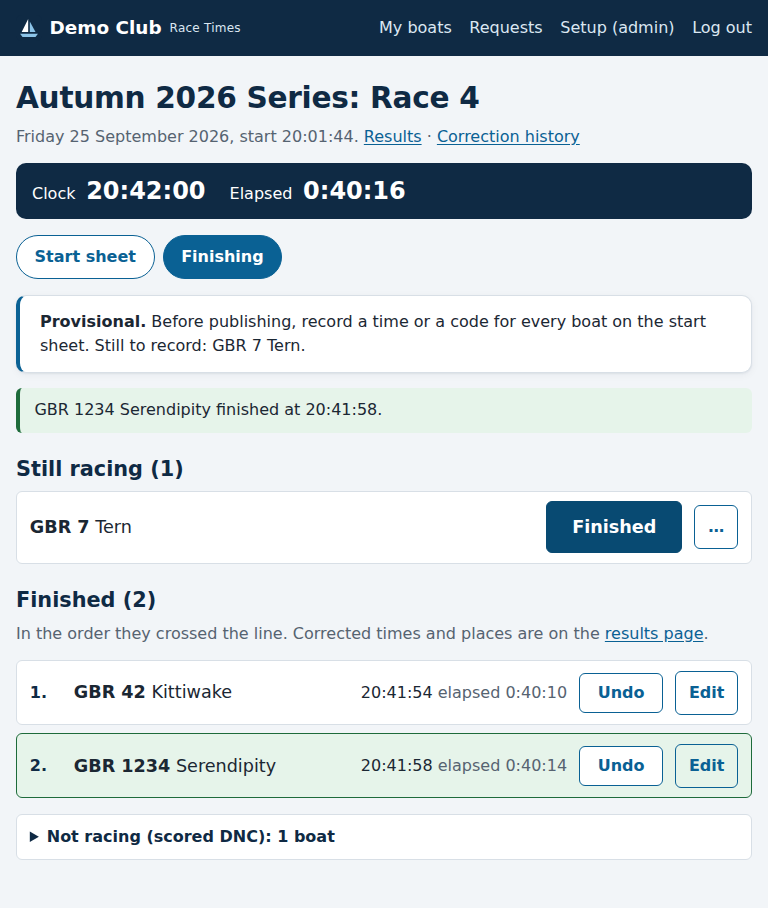
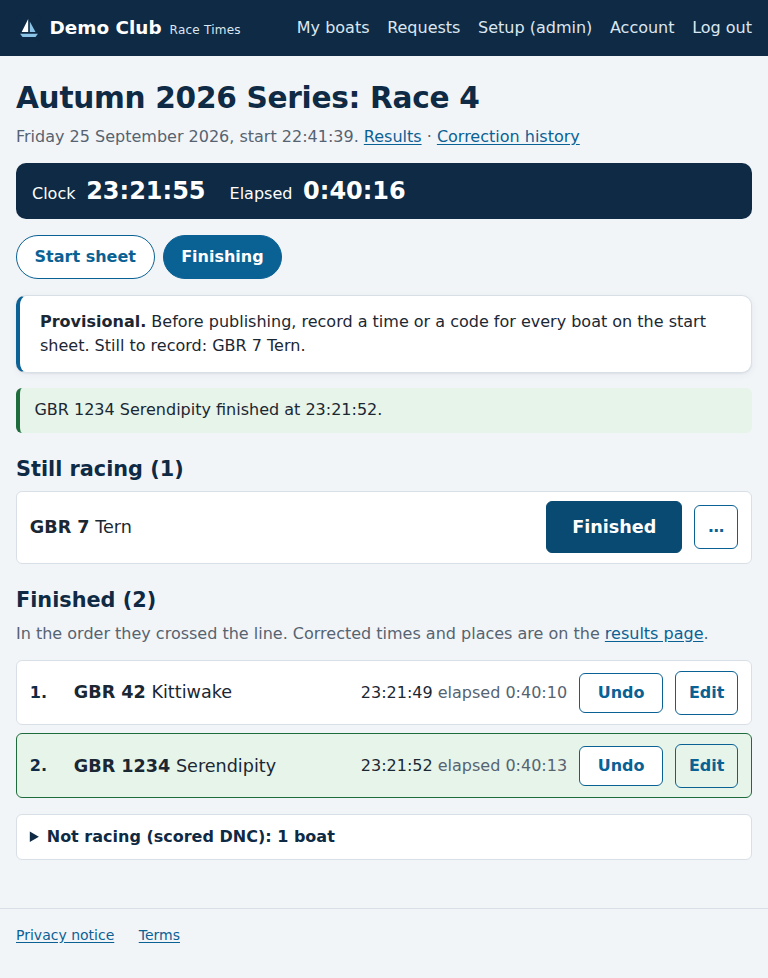
Slice 11 part 5: manual, screenshots and docs; slice 11 complete
- Manual: "Joining a club" becomes "Joining a club, and your data" (the
  account page, downloading your data, deleting your account); "Running
  your club" gains downloading the club's data, with what each file holds.
  New screenshots of the account page and the delete confirmation; the rest
  regenerated, now with the footer.
- docs/operating.md: suspending, exporting and deleting a club.
- docs/decisions.md: how part 5 was built, and the placeholders the legal
  review must fill. docs/plan.md and the spec: part 5, and slice 11,
  complete. README and CLAUDE.md updated.

Checked in the browser against the manual's sample data: a member's
account page, data download and account deletion (with its email); a club
administrator's export; only the session and CSRF cookies set; and the
operator suspending, exporting and deleting a club, with a mistyped
confirmation refused. The tests pass on PostgreSQL 16 too.

Claude-Session: https://claude.ai/code/session_01QY3tQYF5nVQS35pznUQfpw

Changed region(s): [[0.0, 0.0, 1.0, 0.9868]]

diff --git a/scripts/manual_screenshots/shots.js b/scripts/manual_screenshots/shots.js
@@ -141,6 +141,11 @@ const card = (page, text) => page.locator('section.card', { hasText: text }).fir
   const sam = await logIn(browser, 'sam@example.com');
   await sam.goto(`${BASE}/my/boats/`);
   await shot(sam.locator('table').first(), 'member-request-status.png');
+  // Their account page, and deleting the account (not pressed).
+  await sam.goto(`${BASE}/account/`);
+  await shot(sam.locator('main'), 'account.png');
+  await sam.goto(`${BASE}/account/delete/`);
+  await shot(sam.locator('main'), 'delete-account.png');
 
   // The administrator's view.
   const admin = await logIn(browser, 'admin@example.com');

diff --git a/CLAUDE.md b/CLAUDE.md
@@ -91,10 +91,11 @@ a pointer instead.
   one non-engine test there: it checks the user manual's links and contents.
 - Clubs (slice 11): Race Times serves many clubs from one database. `races/clubs.py` middleware finds `request.club` from the host (`<subdomain>.<SERVICE_DOMAIN>`, or the `SINGLE_CLUB` setting on an address with no club, which is how the Render test site, 127.0.0.1 and the tests reach Demo Club). Every club-owned model has `Model.objects.for_club(club)`, and every page, form and admin view looks up club rows through it (or through a row already found that way). `races/test_isolation.py` checks every URL, id, admin page and email for another club's data, and fails if a request-facing module queries a club model without `for_club`. A row's `club` is never editable in a form. The admin (`races/admin_site.py`, `ClubScopedAdmin`) shows only the current club; on the service's own address only the operator (superuser) gets in. Test builders default to Demo Club (`races.testing.default_club()`); to test several clubs, `make_club()` and set `HTTP_HOST="<subdomain>.localhost"`. The operator's pages (slice 11 part 3, `races/operator_views.py` at `/operator/`) exist only on the service's own address (`request.club is None`, tested with `settings.SINGLE_CLUB = ""` and `HTTP_HOST="localhost"`) and only for a superuser; they create and suspend clubs and invite administrators (`races/invitations.py`: a signed 7-day link to the club's address), and log every action as an `OperatorAction`. Clubs and memberships aren't in the Django admin. See `docs/operating.md`.
 - `config/` is the Django project (settings, root URLs, WSGI/ASGI). `races/` is the app: Club, Boat, Series, SeriesEntry, Race, RaceEntry and Finish models, set up through the Django admin; `races/scoring.py` replays a series through `nhc` on every request (nothing derived is stored); `races/audit.py` records every change to a score-affecting field as a `ScoringChange` row (who, when, old and new, and a reason for corrections), called explicitly from the finish view and the admin rather than via signals; a committee-only race day page per race (slice 9, `races/race_day.py` and `/races/<pk>/`: a Start sheet view and a Finishing view where a **Finished** button stamps the site's local time, with a two-minute Undo, 5-second HTMX polling that answers 204 when nothing changed, and `static/js/race-clock.js`, the one approved hand-written script; `race_day.now` is the clock to fix in tests) and a committee-only history page per series. The old finish-entry and start sheet addresses redirect to the race day page. Roles (see `docs/brief.md`) are per club (slice 11 part 2): a `ClubMembership` gives a person a role at one club (member, committee or administrator) once approved, and `races/roles.py` answers `is_member/is_committee/is_club_administrator(user, club)` from it. Use `member_required` / `committee_required` / `club_administrator_required`: the public is sent to log in, and a logged-in person without the role gets a 403, never a login redirect, which would loop. `is_staff`, the old "Race committee" group and superuser status grant nothing at a club; a superuser is the service's operator. Sign-up confirms the email with a signed link (`races/membership_views.py`) and asks to join the club; club administrators decide on the Members page (`/members/`). Test builders `make_member/make_committee/make_administrator` create an approved Demo Club membership (`club=`, `role=`, `status=` to vary it; `join()` adds another club), and `make_operator()` a superuser with none. Members change nothing directly: `races/member_views.py` creates `BoatRequest`/`EntryRequest` rows, and `races/approvals.py` applies one when the committee approves it on the Requests page, through the same audit code as the admin. Email (slice 4) goes only through `races/notifications.send`, which sends after the transaction commits and turns a failure into a logged warning on the page rather than an error; templates are `templates/emails/*.txt`, first line the subject. `races/publishing.py` publishes a race's results and decides "amended since sent" from the change history. `races/final.py` (slice 10) declares a series final and reopens it: a final series is locked (every write path calls `final.check_open`, or `check_series_open` to read the series fresh) and `races/scoring.score_series` rebuilds its results from `Series.final_results`, a JSON copy of the engine's output, instead of replaying; this is the one place derived results are stored. Declaring and reopening are history rows of kind FINAL, which neither mark races amended nor move the standings' "Last updated". `races/start_sheet.py` (slice 6) keeps each race's start sheet (`RaceEntry`): only a boat on it can have a finish, every boat on it needs a time or a code before publishing, and a boat on it with nothing recorded is still scored DNC but shown as "Not recorded". Start sheet changes are not audited, since none moves a score. The test builder `record()` puts the boat on the start sheet first. `races/urls.py` is included at the site root. Project-level templates live in `templates/` (`base.html` loads HTMX and sends the CSRF token via `hx-headers`, so HTMX POSTs work without per-form tokens); HTMX is vendored at `static/js/htmx.min.js` (v2.0.10), not loaded from a CDN. The look (slice 7) is one hand-written stylesheet, `static/css/site.css`: every colour is a token in its `:root`, and `races/test_styles.py` checks the tokens meet WCAG AA contrast, that no colour is written anywhere else, and that pages load only the site's own files. `templates/500.html` copies the look inline and loads nothing. `ping` is an example view demonstrating HTMX fragment responses. `races/testing.py` has builders for the app's tests.
-- `results/` is the public results app (slice 5): the home page (boat search, latest results, every series), a series page and a boat page, at `/`, `/series/<pk>/` and `/boats/<pk>/`. It only reads: no models, GET-only views, and it shows what `races.scoring.score_series` computes and nothing else. `results/export.py` builds the CSV download at `/series/<pk>/results.csv` (slice 10) from the same results. It imports from `races`; `races` never imports from it (it links to it by URL name only). `results/test_read_only.py` enforces all of this. Each HTMX interaction goes to the same URL as its full page; `results/views.py:_render` returns just the targeted fragment when `request.htmx` names it. Public pages never show owners' names.
+- `results/` is the public results app (slice 5): the home page (boat search, latest results, every series), a series page and a boat page, at `/`, `/series/<pk>/` and `/boats/<pk>/`. It only reads: no models, GET-only views, and it shows what `races.scoring.score_series` computes and nothing else. The CSV download at `/series/<pk>/results.csv` (slice 10) is built from the same results by `races/series_csv.py`, which the club's data export uses too. It imports from `races`; `races` never imports from it (it links to it by URL name only). `results/test_read_only.py` enforces all of this. Each HTMX interaction goes to the same URL as its full page; `results/views.py:_render` returns just the targeted fragment when `request.htmx` names it. Public pages never show owners' names.
 - User manual: `manual/` is for the site's users (members, race committee, administrator), organised by role and written in plain CommonMark plus tables so it stays portable; `mkdocs.yml` lists its pages and `.readthedocs.yaml` publishes it. `docs/` is developer documentation and is not part of it. `tests/test_manual.py` checks every link, image and contents entry; screenshots come from `scripts/manual_screenshots/` against throwaway sample data.
 - Hosting: `render.yaml` deploys `main` to Render on every push, running `build.sh` (collectstatic, migrate, createcachetable, `ensure_superuser`) and then `gunicorn`; see `docs/deploying.md`. With `DJANGO_DEBUG=0` the settings switch to production behaviour: WhiteNoise serves static files, HTTPS is enforced (redirect, HSTS for `SECURE_HSTS_SECONDS`, secure cookies), and a missing `DJANGO_SECRET_KEY` stops the site starting.
 - Running in production (slice 11 part 4): `races/health.py` answers `/health/` first in `MIDDLEWARE`, on any address, over plain HTTP. Every email is built in `races/notifications.email_to` (or `forms.ClubPasswordResetForm`, for Django's password reset), which sends it as "<Club> via Race Times" from `DEFAULT_FROM_EMAIL` with Reply-To the club's contact email (`notifications.sender`); `races/test_email_sender.py` fails if anything else builds an email. `races/logs.py`: `ClubMiddleware` stores the club's subdomain for log lines (`WARNING [demo] ...`) and tags Sentry with it; the log formatter and Sentry's `before_send` redact email addresses. Sentry starts only when `SENTRY_DSN` is set. `races/throttle.py` locks an account or an address for 15 minutes after 10 failed logins, using the database cache (`CACHES`); the client's address counts `TRUSTED_PROXIES` from the right of `X-Forwarded-For`. Tests fix its clock with `throttle.now`.
+- Data protection (slice 11 part 5): `/privacy/` and `/terms/` (drafts) on every address, linked from the footer; messages live in the session, so the only cookies are `sessionid` and `csrftoken` (`races/test_legal.py` checks every page). `races/account_views.py`: `/account/`, `races/my_data.py` (a person's JSON download, across their clubs) and `races/account_deletion.py` (every text field holding their login becomes "a deleted account", then the account goes; refused for a club's only administrator and the operator). These account pages are the one place another club's name appears, as the person's own (`OWN_DATA` in `races/test_isolation.py`). `races/club_export.py`: the club's ZIP of CSVs, for its administrators (Members page) and the operator (logged; works while suspended). `races/series_csv.typed()` guards typed text against spreadsheet formulas. `races/club_deletion.py`: the operator deletes a suspended club, series before boats (`SeriesEntry.boat` is PROTECT). `races/conftest.py` makes CSRF tokens fixed in tests, so a check that a name is *not* on a page can't be tripped by a random token.
 - Settings are driven by environment variables (see `.env.example`; `.env` is gitignored but not loaded automatically, so export the variables yourself): `DJANGO_SECRET_KEY`, `DJANGO_DEBUG` (defaults on), `DJANGO_ALLOWED_HOSTS` (comma-separated), `DATABASE_URL`, and the `EMAIL_*` settings (unset, emails are printed to the console). With `DATABASE_URL` unset, the database is `db.sqlite3` in the repo root; set it to a `postgres://...` URL to use PostgreSQL.
 
 

diff --git a/docs/decisions.md b/docs/decisions.md
@@ -1368,6 +1368,37 @@ subdomains, which come with production hosting.
 
 ---
 
+## 2026-09-25 - Slice 11 part 5: how data protection was built
+
+**Decision.**
+- **Messages travel in the session,** not in their own cookie, so the site
+  sets only the session and CSRF cookies, both essential: no cookie banner.
+- **A person's own pages cross clubs.** The account page and the data
+  download show every club the person belongs to, since it's all theirs.
+  They're the one exception to "a page shows only its own club", tested on
+  its own terms: someone at one club sees nothing of another, and a member
+  of two sees only their own rows at each.
+- **Deleting an account edits records that are otherwise never edited.** The
+  change history and a final series are locked against changes, but removing
+  a login from them changes no result, so the anonymising updates go around
+  those rules on purpose (`races/account_deletion.py`).
+- **Deleting a club deletes in order** (history, requests, series, then
+  boats), in one transaction, because a boat in a series is protected from
+  deletion. No model change.
+- **No guard for the `SINGLE_CLUB` club:** the plan had one, but with
+  `SINGLE_CLUB` set every address with no club shows that club, so the
+  operator's pages, and the delete button, don't exist at all.
+- **Spreadsheet formulas:** typed text starting with `=`, `+`, `-` or `@`
+  gets a leading apostrophe in the club export and in the series CSV, which
+  share the code (moved from `results/export.py` to `races/series_csv.py`).
+- **Two intermittent test failures fixed:** a random CSRF token could contain
+  a short name a test checked was absent, and a signed link includes the
+  time to the second. Tests now fix the token and read links back.
+
+**Why.** The slice 11 spec, part 5; the owner's answers above.
+
+---
+
 ## Open requirements
 
 Things that must be done before a stated milestone, but aren't code.
@@ -1378,6 +1409,9 @@ Things that must be done before a stated milestone, but aren't code.
     the page, until reviewed.
   - Clubs will also need a data processing agreement: the club is the
     controller of its members' data, and Race Times is its processor.
+  - The drafts have marked placeholders to fill in: the operator's legal
+    name and postal address, the hosting and email providers (once hosting
+    is chosen), and the terms' limits of liability.
   - None of this blocks building or testing slice 11. It blocks taking on a
     paying club.
 

diff --git a/docs/plan.md b/docs/plan.md
@@ -398,7 +398,7 @@ The brief's user journey 5. The committee declares a series final: it is
 locked, a copy of its results is kept, and the owners are emailed their
 final places. Anyone can download any series as one CSV file.
 
-## Slice 11: a service for many clubs. **Status: ready to build (2026-09-25)**
+## Slice 11: a service for many clubs. **Status: complete (2026-09-25)**
 
 Spec: `docs/slices/11-multi-club-service.md`. The project owner has answered
 five of its six open questions:
@@ -493,3 +493,29 @@ of any particular host.
   minutes (database cache; `TRUSTED_PROXIES`).
 - **Tests:** `races/test_production.py`, `races/test_email_sender.py`,
   `races/test_logs.py`, `races/test_throttle.py`.
+
+**Part 5, data protection: complete (2026-09-25).**
+- **Privacy notice and terms** at `/privacy/` and `/terms/` on every address,
+  marked Draft, linked from every page's footer. Only two cookies (messages
+  moved into the session), so no banner.
+- **The account page** (`/account/`): every club's membership, **Download my
+  data** (one JSON file) and **Delete my account** (password, refused for a
+  club's only administrator and for the operator; their login becomes "a
+  deleted account" everywhere it's stored; one email confirms it).
+- **A club's data export:** a ZIP of CSV files, for the club's administrators
+  and for the operator (logged, and while suspended). Spreadsheet formulas
+  are guarded against in it and in the series CSV.
+- **Deleting a club:** the operator, once suspended, typing its subdomain;
+  series before boats in one transaction; accounts stay. Migration 0017 adds
+  the two operator log actions.
+- **Tests:** `races/test_legal.py`, `races/test_account.py`,
+  `races/test_club_data.py`, and the isolation tests (the export is read
+  inside the ZIP; the account pages show another club only as the person's
+  own). Two intermittent test failures found and fixed on the way.
+- **Manual:** "Joining a club, and your data" and "Running your club" gain
+  the new pages, with screenshots; `docs/operating.md` covers exporting and
+  deleting a club.
+
+With part 5, every acceptance criterion in the spec is met. Production
+hosting is the next slice; the legal review stays an open requirement before
+the first paying club.

diff --git a/README.md b/README.md
@@ -45,6 +45,9 @@ It is built for:
 - **Ready for production:** HTTPS only, a health check, error reports
   (Sentry) and logs that say which club without naming anyone, and a limit
   on failed logins.
+- **Data protection:** a privacy notice and terms (drafts, for legal
+  review), essential cookies only, people download or delete their own data,
+  and a club downloads everything it holds before leaving.
 
 ## Status
 
@@ -61,7 +64,7 @@ It is built for:
 | 8 | Other handicap systems (Portsmouth Yardstick, RYA YTC) | On hold |
 | 9 | The race day page | **Complete** |
 | 10 | Final results and CSV export | **Complete** |
-| 11 | Race Times as a service for many clubs | In progress: parts 1 (clubs), 2 (people and roles), 3 (the operator) and 4 (running in production) done; 5 (data protection) to come |
+| 11 | Race Times as a service for many clubs | **Complete** |
 
 Production hosting at `racetimes.co.uk` is a later slice. Until then the test
 site on Render runs Demo Club. See [`docs/plan.md`](docs/plan.md) for what each
@@ -99,7 +102,7 @@ Requires Python 3.11 or later.
 python3 -m venv .venv && .venv/bin/pip install -r requirements.txt -r requirements-dev.txt
 ```
 
-Run the tests (about 1,250 of them, engine and app):
+Run the tests (about 1,300 of them, engine and app):
 
 ```bash
 .venv/bin/python -m pytest
@@ -133,7 +136,7 @@ collected nothing and reported success, which is worse than failing.
 | `nhc/` | The scoring engine. Standard library only, no Django, no I/O |
 | `tests/` | The engine's tests and the scenario fixtures they run against, plus a check of the user manual's links |
 | `races/` | The Django app: clubs and memberships, models, admin, race day, publishing, final results, change history, member accounts and requests, emails |
-| `results/` | The public results pages and the CSV download. Read-only: no models, GET only |
+| `results/` | The public results pages and the series CSV download. Read-only: no models, GET only |
 | `config/` | Django project settings, URLs, WSGI/ASGI |
 | `templates/`, `static/` | Server-rendered templates, one hand-written stylesheet, HTMX (vendored, not from a CDN), and the race clock script |
 | `manual/` | The user manual, published on Read the Docs |

diff --git a/manual/getting-started/joining-a-club.md b/manual/getting-started/joining-a-club.md
@@ -1,4 +1,4 @@
-# Joining a club
+# Joining a club, and your data
 
 *For anyone who sails at a club that uses Race Times.*
 
@@ -35,3 +35,43 @@ same way.
 Each club's site keeps its own login, so you log in at each club's address
 separately. Your role is separate at each club too: being on the race
 committee at one club gives you nothing at another.
+
+## Your account
+
+**Account**, at the top of every page once you're logged in, shows your name
+and email address, and your role at each club you've joined or asked to join.
+
+![Your account: your name and email, your clubs with your role and status at each, and links to download your data and delete your account](../images/account.png)
+
+## Downloading your data
+
+**Download my data**, on your Account page, gives you a file of everything
+Race Times holds about you, at every club: your account, your memberships,
+the boats you own, your requests to the race committee, and any changes
+you've made to results. It's a JSON file, a plain text format that other
+programs can read.
+
+It doesn't include other people's details, such as who approved you.
+
+## Deleting your account
+
+**Delete my account**, on your Account page, deletes your account and your
+membership of every club. You confirm with your password.
+
+![Deleting your account: what goes, what stays, and your password to confirm](../images/delete-account.png)
+
+- **What goes:** your account, your memberships and your requests to the
+  race committee.
+- **What stays:** your boats, as each club's records with no owner, and every
+  result, exactly as it is. The change history says "a deleted account"
+  wherever it named you.
+
+You're emailed once to confirm it, and that's the last email Race Times sends
+to that address. It can't be undone: to use Race Times again, sign up afresh.
+
+If you're the only administrator of a club, you can't delete your account
+until you've made someone else an administrator there: a club always keeps
+one.
+
+How your data is used, and your rights, are in the **Privacy notice**, linked
+at the bottom of every page of your club's site.

diff --git a/docs/operating.md b/docs/operating.md
@@ -67,9 +67,31 @@ before deleting a club.
 
 ## Exporting and deleting a club
 
-Part 5 of slice 11: a club's administrator downloads the club's data, and the
-operator deletes a suspended club after typing its address to confirm. Not
-built yet.
+When a club leaves Race Times:
+
+1. **Suspend it** (above), so its members see the site is paused.
+2. **Download its data.** On the club's page, under "The club's data",
+   **Download everything <club> holds (ZIP)** gives the same ZIP the club's
+   administrators get from their Members page: boats, members, series,
+   entries, races, start sheets, finishes, each series' results, requests and
+   the change history, as CSV files. It works while the club is suspended,
+   which is the point: its administrators can't reach its site then. Send it
+   to the club. Each download is recorded in the operator log.
+3. **Delete it.** Once the club is suspended, **Delete <club>...** on its page
+   asks you to type the club's address (its subdomain) to confirm. Everything
+   the club holds goes, in one step: boats, series, races, finishes,
+   requests, history, memberships and invitations. People's accounts stay,
+   since they may belong to other clubs. The operator log records it, with
+   counts of what went, and keeps the club's subdomain as text so the log
+   still reads after the club has gone.
+
+An active club can't be deleted. With `SINGLE_CLUB` set (the test site),
+there are no operator pages at all, so the club it shows can't be deleted
+from the site.
+
+People delete their own accounts, from **Account** at any club; the
+operator's own account can't be deleted that way. See the manual's "Joining a
+club, and your data".
 
 ## Clubs at a glance
 

diff --git a/manual/committee/members-and-roles.md b/manual/committee/members-and-roles.md
@@ -81,3 +81,24 @@ and can ask to join again, which puts them back under "Waiting to join".
 
 So that there's always someone to turn to, it's a good idea for a club to have
 two administrators.
+
+## Downloading the club's data
+
+**Download everything the club holds (ZIP)**, at the top of the **Members**
+page, gives you a ZIP file of spreadsheet (CSV) files:
+
+| File | Holds |
+|---|---|
+| `boats.csv` | Every boat, with its owner. |
+| `members.csv` | Everyone at the club: name, email, role and status. |
+| `series.csv`, `series_entries.csv`, `races.csv` | Every series, the boats entered in it, and its races. |
+| `start_sheets.csv`, `finishes.csv` | Who was racing, and every recorded finish time and code. |
+| `results/` | Each series' standings and race results, the same file as its **Download (CSV)** link. |
+| `boat_requests.csv`, `entry_requests.csv` | Members' requests, and what was decided. |
+| `history.csv` | Every change to a result: who, when, and why. |
+
+It holds members' names and email addresses, so keep it safe, and share it
+only as your club's own data protection rules allow.
+
+If your club stops using Race Times, the service's operator can take the same
+download for you before the club's data is deleted.

diff --git a/manual/index.md b/manual/index.md
@@ -36,8 +36,9 @@ way every boat, entry and result has been checked by someone on the committee.
 
 - [Finding your results](getting-started/finding-results.md): your boat's
   results and next handicap, and a series' standings.
-- [Joining a club](getting-started/joining-a-club.md): signing up, confirming
-  your email, and waiting for the club to approve you.
+- [Joining a club, and your data](getting-started/joining-a-club.md): signing
+  up, confirming your email, waiting for the club to approve you, and
+  downloading your data or deleting your account.
 - [Forgotten your password?](getting-started/forgotten-password.md)
 
 **Members**
@@ -55,6 +56,7 @@ way every boat, entry and result has been checked by someone on the committee.
 - [Reviewing waiting requests](committee/reviewing-requests.md): finding out
   what is waiting for you, and approving or rejecting members' requests.
 - [Running your club: members and roles](committee/members-and-roles.md): for
-  club administrators, approving people joining, and choosing their roles.
+  club administrators, approving people joining, choosing their roles, and
+  downloading the club's data.
 
 More sections will follow as the manual grows.

diff --git a/docs/slices/11-multi-club-service.md b/docs/slices/11-multi-club-service.md
@@ -1,7 +1,7 @@
 # Slice 11: Race Times as a service for many clubs
 
-**Status: planned, and ready to build. Every open question is answered, and
-the data model was approved by the project owner on 2026-09-25.**
+**Status: complete (2026-09-25). All five parts are built and merged; see
+`docs/plan.md`.**
 
 ## Goal
 Race Times today is one club's website. It assumes a single club throughout:
